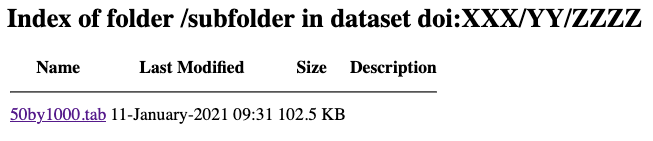
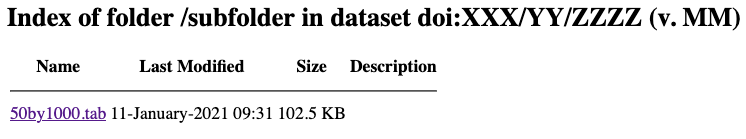
updated the images for the guide to reflect the minor cosmetic change (version number added to the dir. index) #7084

diff --git a/doc/sphinx-guides/source/api/native-api.rst b/doc/sphinx-guides/source/api/native-api.rst
@@ -840,7 +840,7 @@ with the underlying html source:
     <table>
     <tr><th>Name</th><th>Last Modified</th><th>Size</th><th>Description</th></tr>
     <tr><th colspan="4"><hr></th></tr>
-    <tr><td><a href="/api/datasets/NNNN/dirindex?folder=subfolder">subfolder/</a></td><td align="right"> - </td><td align="right"> - </td><td align="right">&nbsp;</td></tr>
+    <tr><td><a href="/api/datasets/NNNN/dirindex/?folder=subfolder">subfolder/</a></td><td align="right"> - </td><td align="right"> - </td><td align="right">&nbsp;</td></tr>
     <tr><td><a href="/api/access/datafile/KKKK">testfile.txt</a></td><td align="right">13-January-2021 22:35</td><td align="right">19 B</td><td align="right">&nbsp;</td></tr>
     </table></body></html>
 
